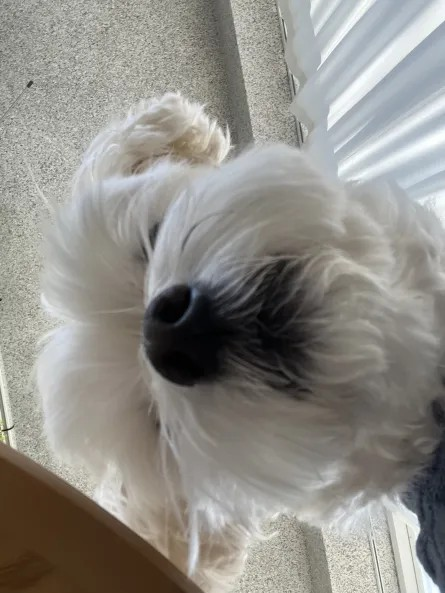
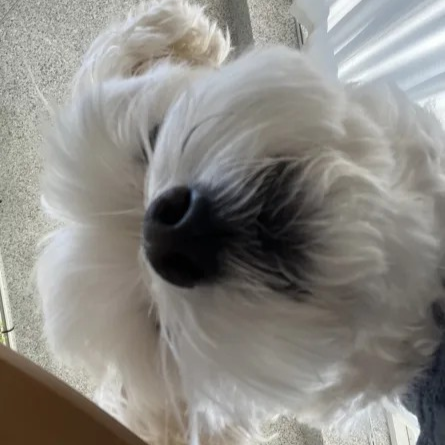
dashboard 수정 및 사진 크롭

diff --git a/views/dashboard.py b/views/dashboard.py
@@ -9,72 +9,50 @@ def show_dashboard():
     st.header(":bar_chart: Dashboard")
     data = pd.read_csv("data/waze_dataset.csv")
     columns = data.columns.drop("label")
+
     with elements("dashboard"):
         layout = [
-            # Parameters: element_identifier, x_pos, y_pos, width, height, [item properties...]
-            dashboard.Item("first_item", 0, 0, 5, 2),
-            dashboard.Item("second_item", 5, 0, 5, 2),
-            dashboard.Item("third_item", 0, 2, 5, 1),
-            dashboard.Item("fourth_item", 5, 2, 5, 1),
-            dashboard.Item("plot", 0, 10, 5, 5),
+            # Parameters: element_identifier, x_pos, y_pos, width, height
+            dashboard.Item("first_item", 0, 0, 2, 2),
+            dashboard.Item("second_item", 2, 0, 2, 2),
+            dashboard.Item("third_item", 4, 0, 2, 2),
+            dashboard.Item("fourth_item", 6, 0, 2, 2),
         ]
 
         def handle_layout_change(updated_layout):
             return updated_layout
 
+        # 1: 하은님 강아지, 2: 승현님 강아지, 3: 서윤님 인형, 4: 코딩 에러 으아아
+        image_1 = "https://raw.githubusercontent.com/SKNETWORKS-FAMILY-AICAMP/SKN06-2nd-6Team/refs/heads/main/image/%ED%95%98%EC%9D%80%EB%8B%98%EB%84%A4%EA%B7%80%EC%9A%94%EB%AF%B8.png"
+        image_2 = "https://raw.githubusercontent.com/SKNETWORKS-FAMILY-AICAMP/SKN06-2nd-6Team/refs/heads/main/image/%EC%8A%B9%ED%98%84%EB%8B%98%EB%84%A4%EA%B7%80%EC%9A%94%EB%AF%B8.png"
+        image_3 = "https://raw.githubusercontent.com/SKNETWORKS-FAMILY-AICAMP/SKN06-2nd-6Team/refs/heads/main/image/%EC%84%9C%EC%9C%A4%EB%8B%98_%EC%95%A0%EC%B0%A9%EC%9D%B8%ED%98%95.png"
+        image_4 = "https://raw.githubusercontent.com/SKNETWORKS-FAMILY-AICAMP/SKN06-2nd-6Team/refs/heads/main/image/%EB%B6%80%EC%8B%A4%EA%B0%90%EC%9E%90.jpeg"
         with dashboard.Grid(layout, onLayoutChange=handle_layout_change):
-            mui.Card(
-                mui.CardMedia(  # 썸네일 이미지
-                    sx={
-                        "height": 140,
-                        "backgroundImage": f"url(image/부실감자.jpeg)",
-                        # "mt": 0.5
-                    }
-                ),
-                key="first_item",
-            )
-            st.image("image/부실감자.jpeg")
-            mui.Paper("Second item", key="second_item")
-            mui.Paper("Third item", key="third_item")
-            mui.Paper("Fourth item", key="fourth_item")
-
-            with mui.Box(key="plot", sx={"height": 500}, display="flex"):
-                nivo.Radar(
-                    data=data,
-                    keys=columns,
-                    indexBy="label",
-                    valueFormat=">-.2f",
-                    margin={"top": 70, "right": 80, "bottom": 40, "left": 80},
-                    borderColor={"from": "color"},
-                    gridLabelOffset=36,
-                    dotSize=10,
-                    dotColor={"theme": "background"},
-                    dotBorderWidth=2,
-                    motionConfig="wobbly",
-                    legends=[
-                        {
-                            "anchor": "top-left",
-                            "direction": "column",
-                            "translateX": -50,
-                            "translateY": -40,
-                            "itemWidth": 80,
-                            "itemHeight": 20,
-                            "itemTextColor": "#999",
-                            "symbolSize": 12,
-                            "symbolShape": "circle",
-                            "effects": [
-                                {"on": "hover", "style": {"itemTextColor": "#000"}}
-                            ],
-                        }
-                    ],
-                    theme={
-                        "background": "#FFFFFF",
-                        "textColor": "#31333F",
-                        "tooltip": {
-                            "container": {
-                                "background": "#FFFFFF",
-                                "color": "#31333F",
-                            }
-                        },
-                    },
+            with mui.Paper(elevation=3, key="first_item"):
+                mui.Box(
+                    component="img",
+                    src=image_1,
+                    alt="Correlation Image",
+                    sx={"width": "100%", "height": "100%"},
+                )
+            with mui.Paper(elevation=3, key="second_item"):
+                mui.Box(
+                    component="img",
+                    src=image_2,
+                    alt="Correlation Image",
+                    sx={"width": "100%", "height": "100%"},
+                )
+            with mui.Paper(elevation=3, key="third_item"):
+                mui.Box(
+                    component="img",
+                    src=image_3,
+                    alt="Correlation Image",
+                    sx={"width": "100%", "height": "100%"},
+                )
+            with mui.Paper(elevation=3, key="fourth_item"):
+                mui.Box(
+                    component="img",
+                    src=image_4,
+                    alt="Correlation Image",
+                    sx={"width": "100%", "height": "100%"},
                 )
